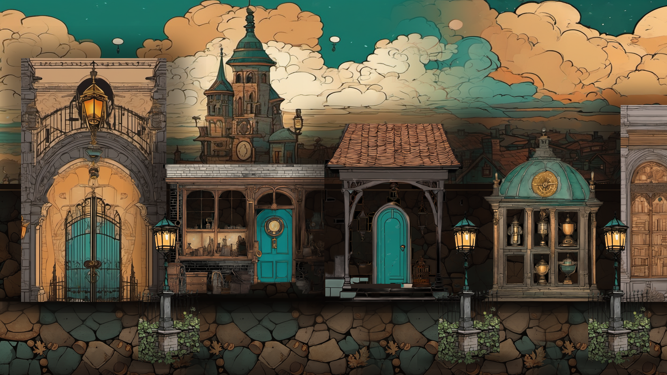
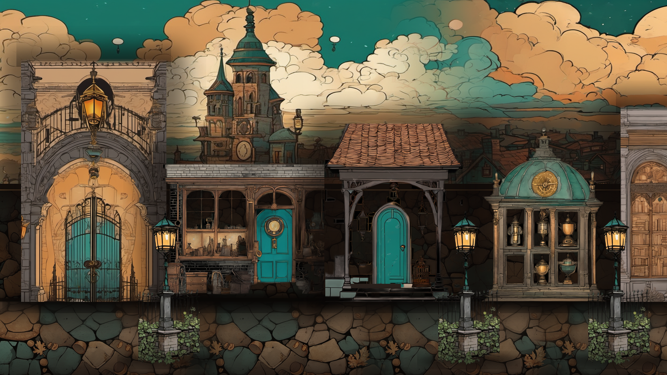
B10a.3 bellfoot art round 3: feathered tops with a soft dark gradient, wall seam, workshop brick band, calmer cobbles at the lamps, manifest sizes

diff --git a/src/art/manifest.ts b/src/art/manifest.ts
@@ -108,7 +108,7 @@ export const MANIFEST: ManifestEntry[] = [
     act: 0,
     files: [
       { path: 'art/bellfoot/sky.webp', bytes: 167554 },
-      { path: 'art/bellfoot/street.webp', bytes: 274714 },
+      { path: 'art/bellfoot/street.webp', bytes: 259476 },
       { path: 'art/bellfoot/foreground.webp', bytes: 56576 },
     ],
     source: 'art/bellfoot',

diff --git a/art/bellfoot/build.py b/art/bellfoot/build.py
@@ -138,6 +138,10 @@ def street():
         sd.line([(0, y), (W, y)], fill=int(150 * (1 - y / wall.height) ** 1.6))
     dark = Image.new("RGBA", wall.size, (18, 12, 10, 255))
     wall = Image.composite(dark, wall, shade)
+    seam = Image.new("L", wall.size, 0)  # darken and soften the stretch where the texture copies meet (x about 1640)
+    ImageDraw.Draw(seam).rectangle([1580, 0, 1700, wall.height], fill=110)
+    seam = seam.filter(ImageFilter.GaussianBlur(40))
+    wall = Image.composite(Image.new("RGBA", wall.size, (16, 11, 9, 255)), wall, seam)
     img.paste(wall, (0, WALL))
     d = ImageDraw.Draw(img)
     # one continuous cornice at a constant height: a dark coping, a thin warm edge and a soft shadow under it
@@ -162,6 +166,11 @@ def street():
         ld.line([(0, y), (W, y)], fill=int(190 * max(0.0, 1 - y / 70) ** 0.8))
     cob = Image.composite(soft, cob, lane)
     cob = Image.composite(Image.new("RGBA", cob.size, (22, 15, 11, 255)), cob, lane.point(lambda v: v // 3))
+    near = Image.new("L", cob.size, 0)  # about 10 percent less contrast around the lamp bases
+    nd = ImageDraw.Draw(near)
+    for lx in (360, 1000, 1320, 1590):
+        nd.ellipse([lx - 110, 0, lx + 110, 150], fill=130)
+    cob = Image.composite(soft, cob, near.filter(ImageFilter.GaussianBlur(30)))
     img.paste(cob, (0, GROUND))
     d.rectangle([0, GROUND - 4, W, GROUND + 2], fill=(20, 14, 10, 255))
     # places, back to front by x: (name, anchor x, height, crop box or None, mirror)
@@ -190,6 +199,22 @@ def street():
         if name in DUSK:
             im = tint(im, DUSK[name], 1.0)
         im = fit_h(im, h)
+        if name == "workshop":  # tone the pale brick band at the roof line down about 15 percent
+            band = im.crop((0, 8, im.width, 55))
+            im.paste(tint(band, (0.85, 0.85, 0.85), 1.0), (0, 8))
+        if name in ("gate", "archivist", "clocktower"):
+            # feather the top 12 px and set the front into a dark gradient against the sky
+            ramp = Image.new("L", im.size, 255)
+            rd = ImageDraw.Draw(ramp)
+            for y in range(12):
+                rd.line([(0, y), (im.width, y)], fill=int(255 * (y / 12) ** 1.4))
+            im.putalpha(ImageChops.multiply(im.getchannel("A"), ramp))
+            glow = Image.new("RGBA", (im.width + 20, 70), (0, 0, 0, 0))
+            gd = ImageDraw.Draw(glow)
+            for y in range(70):
+                gd.line([(0, y), (glow.width, y)], fill=(12, 8, 7, int(95 * (y / 69) ** 1.6)))
+            glow = glow.filter(ImageFilter.GaussianBlur(18))
+            img.alpha_composite(glow, (x - glow.width // 2, GROUND + 4 - im.height - 52))
         # a darker band on the wall behind the front, so it sits in the street instead of on it
         bw, bh = im.width + 90, im.height + 50
         band = Image.new("RGBA", (bw + 80, bh + 80), (0, 0, 0, 0))
